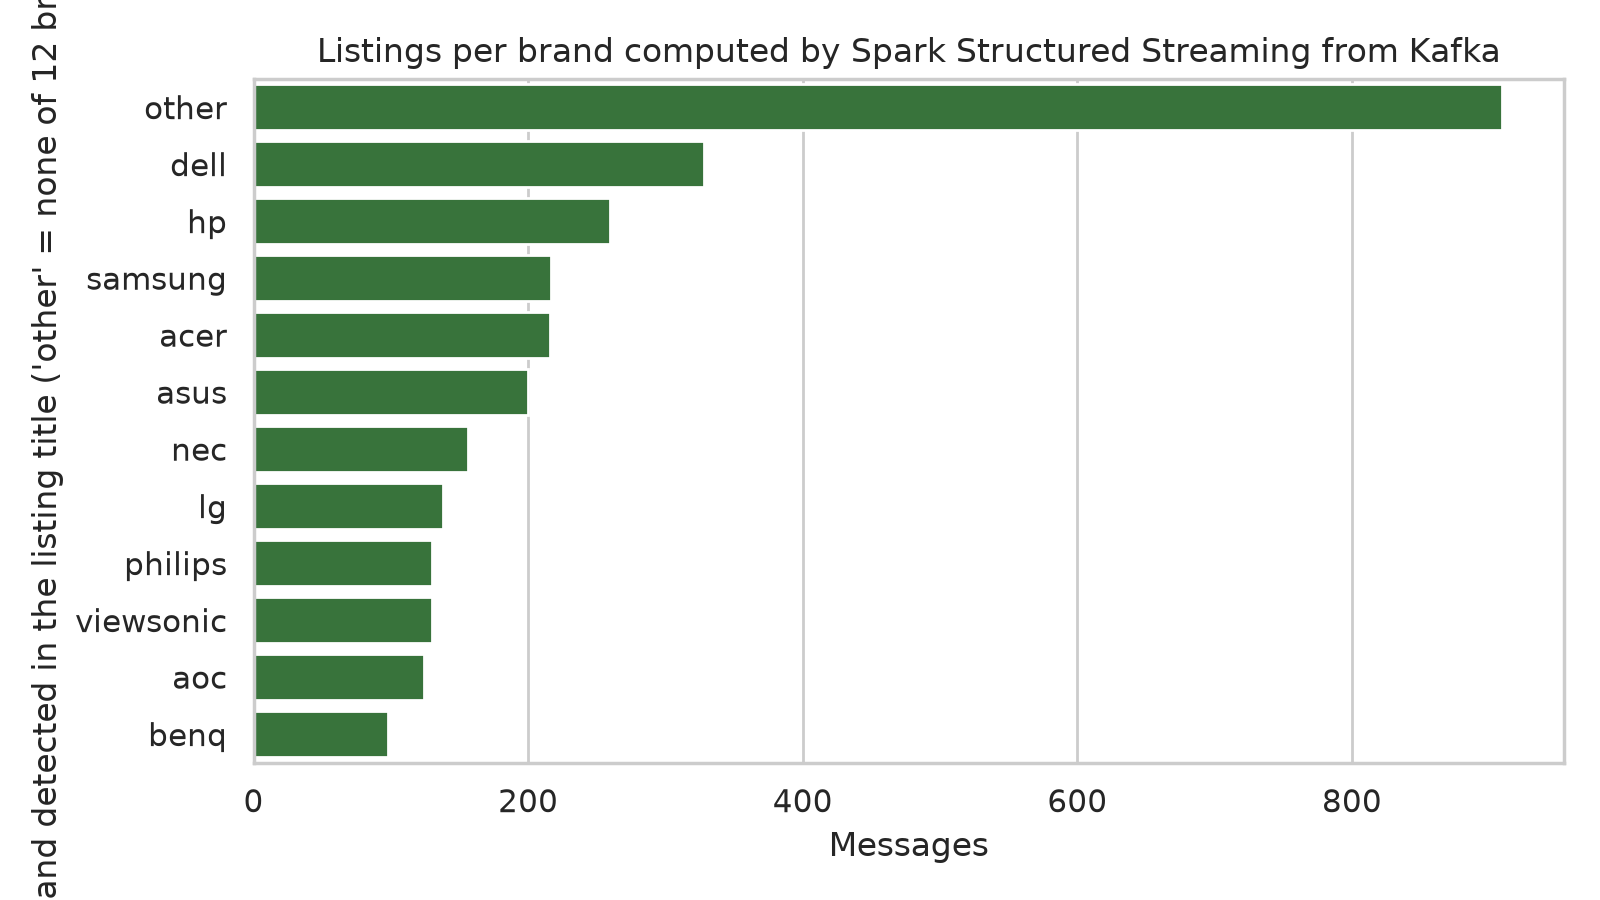
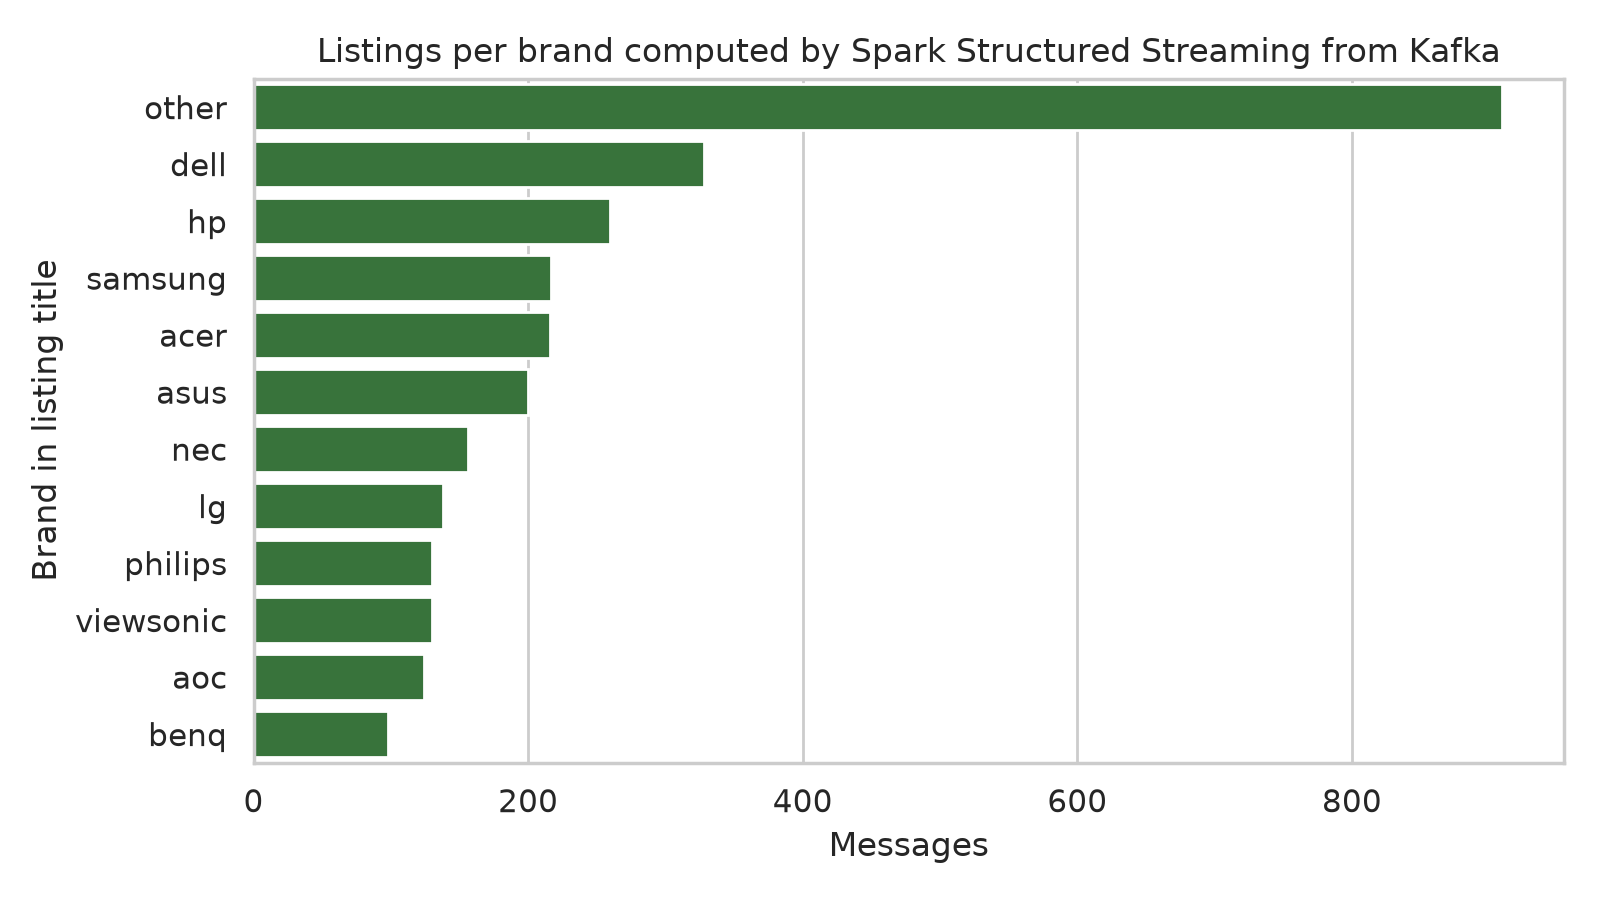
Shorter streaming chart label

diff --git a/bdi/visualize.py b/bdi/visualize.py
@@ -112,7 +112,7 @@ def fig_stream():
     sns.barplot(data=s, y="brand", x="count", color="#2e7d32", ax=ax)
     ax.set_title("Listings per brand computed by Spark Structured Streaming from Kafka")
     ax.set_xlabel("Messages")
-    ax.set_ylabel("Brand detected in the listing title ('other' = none of 12 brands)")
+    ax.set_ylabel("Brand in listing title")
     fig.tight_layout()
     fig.savefig(FIGURES / "fig6_streaming.png", dpi=200)
     plt.close(fig)
